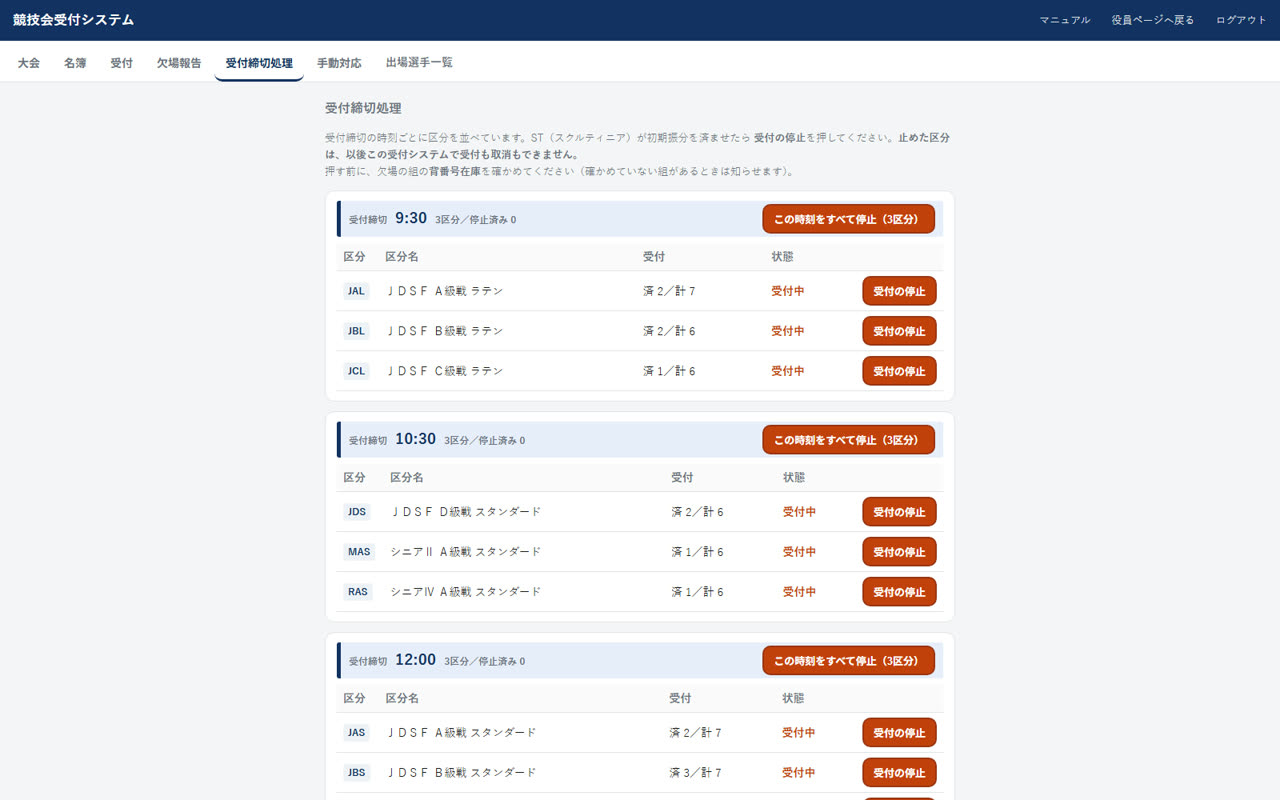
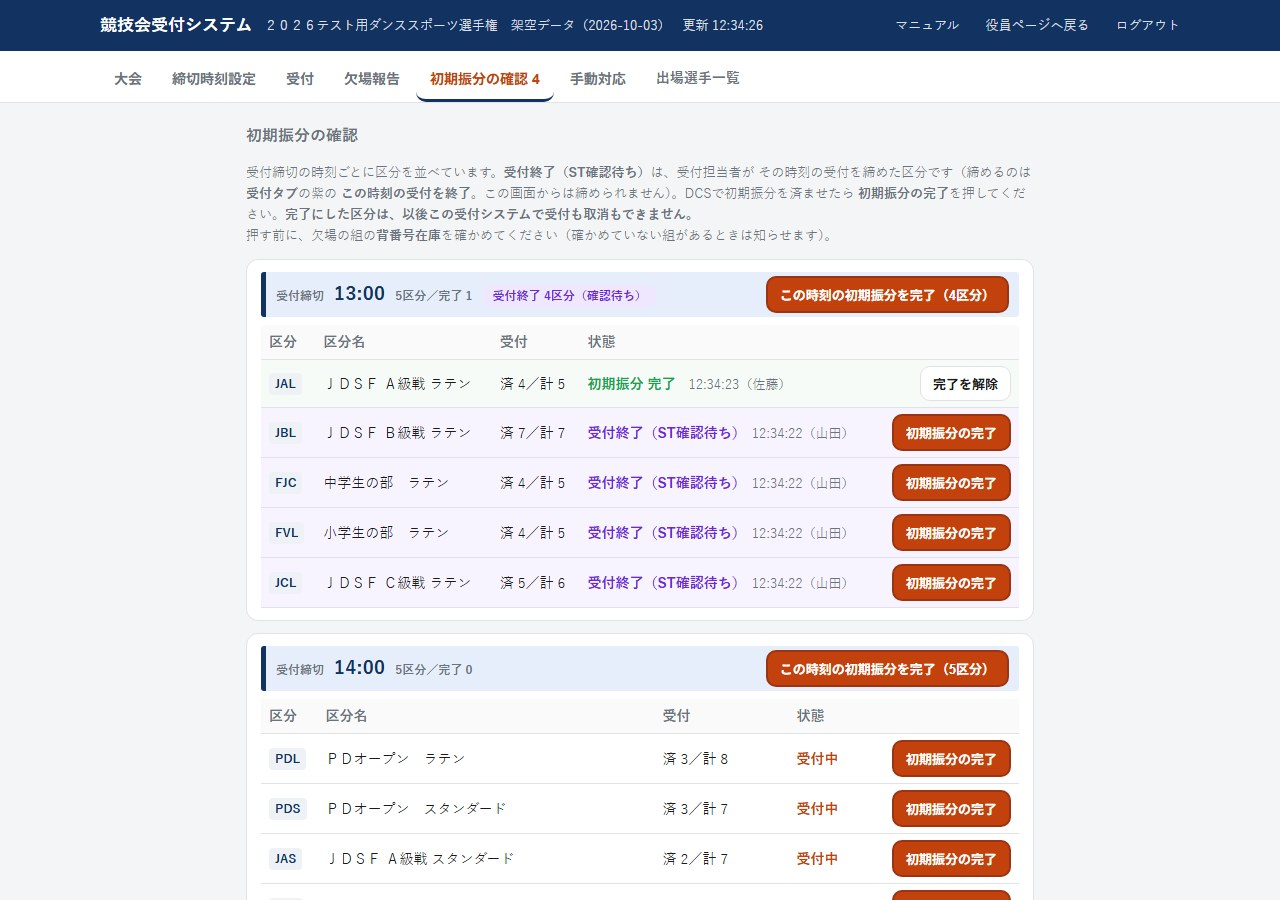
マニュアル：画面写真を16枚すべて撮り直す
タブ名が「名簿→締切時刻設定」「受付締切処理→初期振分の確認」と変わって
いるのに、写真は古い名前のままだった。ボタンの文言（「受付の停止」→
「初期振分の完了」）や、受付終了（ST確認待ち）の3段階も写っていなかった。

本番のAPIをそのまま動かすモック（架空データ）で、各画面を作って撮り直し。
あわせて写真に合わせて図の説明を直した（一部受付の例を73番に、初期振分の
確認は3つの状態の説明に、大会作成は「作成する」ボタンが無い now の文言に）。
ログイン画面だけは今のままで正しいので触っていない。

Changed region(s): [[0.0, 0.0, 1.0, 1.0]]

diff --git a/uketsuke-manual.html b/uketsuke-manual.html
@@ -273,7 +273,7 @@
 
 <figure>
   <img src="images/uketsuke-manual/03_comp_new.jpg" alt="新しい大会を作る">
-  <figcaption>2つのファイルを選んで「作成する」を押すだけです。大会名・開催日・区分・名簿がそのまま入ります。</figcaption>
+  <figcaption>DCSの2つのファイルを選ぶだけです。選んだその場で読み込み、大会名・開催日・区分・名簿がそのまま入ります。</figcaption>
 </figure>
 
 <ol class="steps">
@@ -574,7 +574,7 @@
 
 <figure>
   <img src="images/uketsuke-manual/10_part_done.jpg" alt="一部受付の結果">
-  <figcaption>押した区分だけが受付されます。受付状況には、5番のように「JAS（灰色＝未受付）／JBL（緑＝受付済み）」と残ります。</figcaption>
+  <figcaption>押した区分だけが受付されます。受付状況には、73番のように「FVL（緑＝受付済み）／JBS（灰色＝未受付）」と残ります。</figcaption>
 </figure>
 
 <ul>
@@ -748,7 +748,7 @@
 
 <figure>
   <img src="images/uketsuke-manual/17_assign.jpg" alt="初期振分の確認">
-  <figcaption>初期振分の確認。受付締切の時刻ごとに区分が並びます。見出しの右のボタンで、その時刻の区分をまとめて初期振分の完了にできます。（画面写真は旧名称「受付締切処理」のときのものです）</figcaption>
+  <figcaption>初期振分の確認。受付締切の時刻ごとに区分が並びます。見出しの右のボタンで、その時刻の区分をまとめて初期振分の完了にできます。状態は<b>受付中</b>・<b>受付終了（ST確認待ち）</b>・<b>初期振分 完了</b>の3つで、タブには確認待ちの区分数が出ます。</figcaption>
 </figure>
 
 <p>
